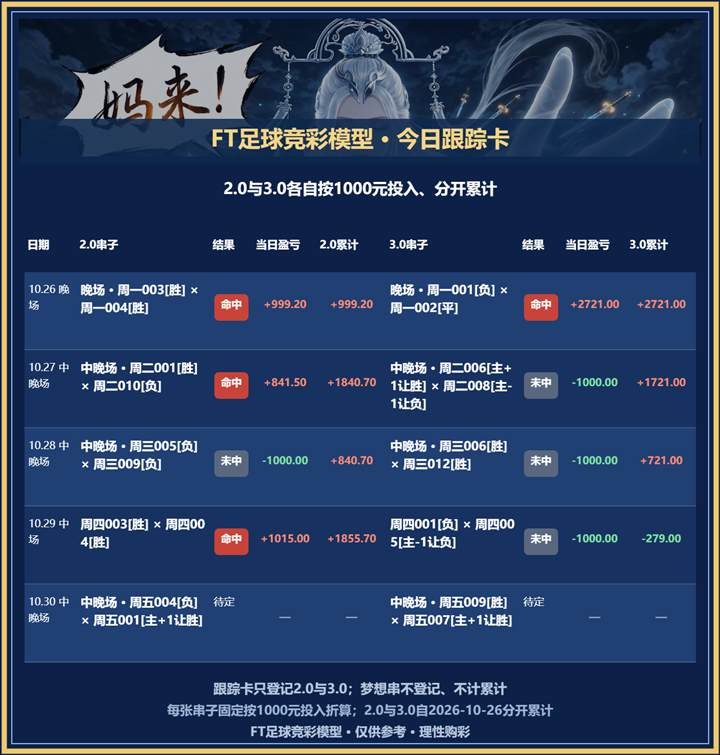
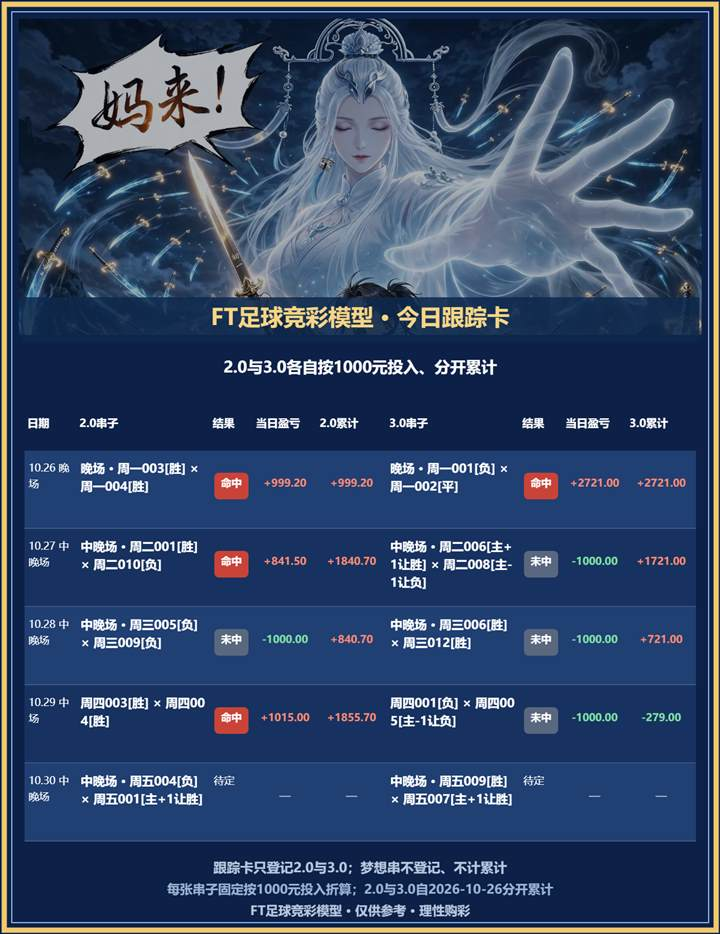
Show full Muse artwork on tracking cards

diff --git a/public/phone-v2.html b/public/phone-v2.html
@@ -1,7 +1,7 @@
 <!doctype html><html lang="zh-CN"><head><meta charset="utf-8"><meta name="viewport" content="width=device-width,initial-scale=1,viewport-fit=cover"><title>足球图片</title><style>
 *{box-sizing:border-box}body{margin:0;background:#edf4f1;color:#173d32;font-family:"Microsoft YaHei",sans-serif}main{max-width:720px;margin:auto;padding:12px}h1{margin:4px 0 6px;font-size:22px}.tip{margin:0 0 12px;color:#5d726a;font-size:13px}.card{margin-bottom:14px;padding:10px;background:#fff;border:1px solid #aac9bd;border-radius:6px}.head{display:flex;justify-content:space-between;margin-bottom:8px}.head strong{font-size:17px}.head span{font-size:12px;color:#667b73}img{display:block;width:100%;height:auto;border:1px solid #b7cec5;background:#e5eeeb}button{display:block;width:100%;margin-top:9px;padding:13px 8px;border:0;border-radius:5px;background:#197751;color:#fff;font-size:16px;font-weight:700}button:disabled{background:#829b92}#status{padding:30px;text-align:center}
 </style></head><body><main><h1>足球四图</h1><p class="tip">点击绿色按钮，直接复制对应图片。</p><div id="cards"><div id="status">正在加载…</div></div></main><script>
-(async()=>{const cards=document.getElementById('cards'),version='20261030-reviewfix2';try{const [today,review]=await Promise.all([fetch(`data/latest.json?v=${version}`,{cache:'no-store'}).then(r=>r.json()),fetch(`data/review-latest.json?v=${version}`,{cache:'no-store'}).then(r=>r.json())]);const items=[['推荐扫盘',today.date,`${today.date}-final-scan.png`],['今日跟踪',today.date,`${today.date}-final-tracking.png`],['复盘扫盘',review.date,`${review.date}-review-scan.png`],['复盘跟踪',review.date,`${review.date}-review-tracking.png`]];cards.textContent='';for(const [title,date,file] of items){const box=document.createElement('section');box.className='card';const preview=`cards/${file.replace('.png','-preview.jpg')}?v=${version}`,full=`cards/${file}?v=${version}`;box.innerHTML='<div class="head"><strong></strong><span></span></div><img loading="lazy" decoding="async"><button>点击复制图片</button>';box.querySelector('strong').textContent=title;box.querySelector('span').textContent=date;const img=box.querySelector('img'),button=box.querySelector('button');img.alt=`${date} ${title}`;img.src=preview;button.onclick=async()=>{const text=button.textContent;button.textContent='正在复制高清图…';button.disabled=true;try{if(!navigator.clipboard?.write||!window.ClipboardItem)throw Error();const response=await fetch(full+'?copy='+Date.now(),{cache:'no-store'});if(!response.ok)throw Error();const source=await response.blob();const png=source.type==='image/png'?source:new Blob([await source.arrayBuffer()],{type:'image/png'});await navigator.clipboard.write([new ClipboardItem({'image/png':png})]);button.textContent='✓ 已复制高清图'}catch{button.textContent='复制失败，请重试'}setTimeout(()=>{button.disabled=false;button.textContent=text},2500)};cards.append(box)}}catch{document.getElementById('status').textContent='加载失败，请刷新';}})();
+(async()=>{const cards=document.getElementById('cards'),version='20261030-fullmuse';try{const [today,review]=await Promise.all([fetch(`data/latest.json?v=${version}`,{cache:'no-store'}).then(r=>r.json()),fetch(`data/review-latest.json?v=${version}`,{cache:'no-store'}).then(r=>r.json())]);const items=[['推荐扫盘',today.date,`${today.date}-final-scan.png`],['今日跟踪',today.date,`${today.date}-final-tracking.png`],['复盘扫盘',review.date,`${review.date}-review-scan.png`],['复盘跟踪',review.date,`${review.date}-review-tracking.png`]];cards.textContent='';for(const [title,date,file] of items){const box=document.createElement('section');box.className='card';const preview=`cards/${file.replace('.png','-preview.jpg')}?v=${version}`,full=`cards/${file}?v=${version}`;box.innerHTML='<div class="head"><strong></strong><span></span></div><img loading="lazy" decoding="async"><button>点击复制图片</button>';box.querySelector('strong').textContent=title;box.querySelector('span').textContent=date;const img=box.querySelector('img'),button=box.querySelector('button');img.alt=`${date} ${title}`;img.src=preview;button.onclick=async()=>{const text=button.textContent;button.textContent='正在复制高清图…';button.disabled=true;try{if(!navigator.clipboard?.write||!window.ClipboardItem)throw Error();const response=await fetch(full+'?copy='+Date.now(),{cache:'no-store'});if(!response.ok)throw Error();const source=await response.blob();const png=source.type==='image/png'?source:new Blob([await source.arrayBuffer()],{type:'image/png'});await navigator.clipboard.write([new ClipboardItem({'image/png':png})]);button.textContent='✓ 已复制高清图'}catch{button.textContent='复制失败，请重试'}setTimeout(()=>{button.disabled=false;button.textContent=text},2500)};cards.append(box)}}catch{document.getElementById('status').textContent='加载失败，请刷新';}})();
 </script><script>
 const refreshImages=()=>document.querySelectorAll('img:not([data-fresh])').forEach(img=>{img.dataset.fresh='1';const url=new URL(img.src);url.searchParams.set('v','20261030-final');img.src=url});
 new MutationObserver(refreshImages).observe(document.getElementById('cards'),{childList:true,subtree:true});refreshImages();

diff --git a/public/muse-cards.js b/public/muse-cards.js
@@ -67,7 +67,7 @@
     const trackingKind=r=>{const s=[r.name,r.type,r.passType,r.trackingTier,r.category].filter(Boolean).join(' ');if(/全进球数|进球数梦想/.test(s)&&(/4串1/.test(s)||Number(r?.legs?.length)===4))return 'goals4';if(/全进球数|进球数梦想/.test(s)&&(/3串1/.test(s)||Number(r?.legs?.length)===3))return 'goals3';const m=s.match(/(?:^|[^\d.])([23])[.]0(?:版|档|\s|[｜|·：:]|$)/);return m?`core${m[1]}`:null};
     const session=r=>r?[r.sessionLabel,r.batchLabel,r.session,r.batch?.label,r.batch?.name,r.name].filter(v=>typeof v==='string').join(' ').match(/中晚场|早场|中场|晚场/)?.[0]||'':'';
     const order=rs=>rs.map((r,i)=>({r,i})).sort((a,b)=>String(a.r.date||report.date).localeCompare(String(b.r.date||report.date))||a.i-b.i).map(x=>x.r);
-    const left=order(raw.filter(r=>trackingKind(r)==='core2')),right=order(raw.filter(r=>trackingKind(r)==='core3'));const tracked=[...left,...right],sessions=['早场','中场','晚场'];const count=reviewMode?Math.max(left.length,right.length):Math.max(left.length,right.length,1),heroH=282,tableY=390,height=tableY+80+count*135+160;
+    const left=order(raw.filter(r=>trackingKind(r)==='core2')),right=order(raw.filter(r=>trackingKind(r)==='core3'));const tracked=[...left,...right],sessions=['早场','中场','晚场'];const count=reviewMode?Math.max(left.length,right.length):Math.max(left.length,right.length,1),heroH=590,tableY=698,height=tableY+80+count*135+160;
     const cardWidth=1244,tableWidth=1160,tableX=42;const {canvas,ctx}=setup(height,cardWidth);ctx.fillStyle='#0d2148';ctx.fillRect(0,0,cardWidth,height);
     // Keep the whole reference artwork inside the border, including its left speech bubble.
     if(asset.naturalWidth){const artX=32,artY=32,artW=cardWidth-64,artH=artW*asset.naturalHeight/asset.naturalWidth;ctx.save();ctx.beginPath();ctx.rect(artX,artY,artW,heroH-44);ctx.clip();ctx.drawImage(asset,artX,artY,artW,artH);ctx.fillStyle='rgba(7,16,32,.32)';ctx.fillRect(artX,artY,artW,heroH-44);ctx.restore()}
